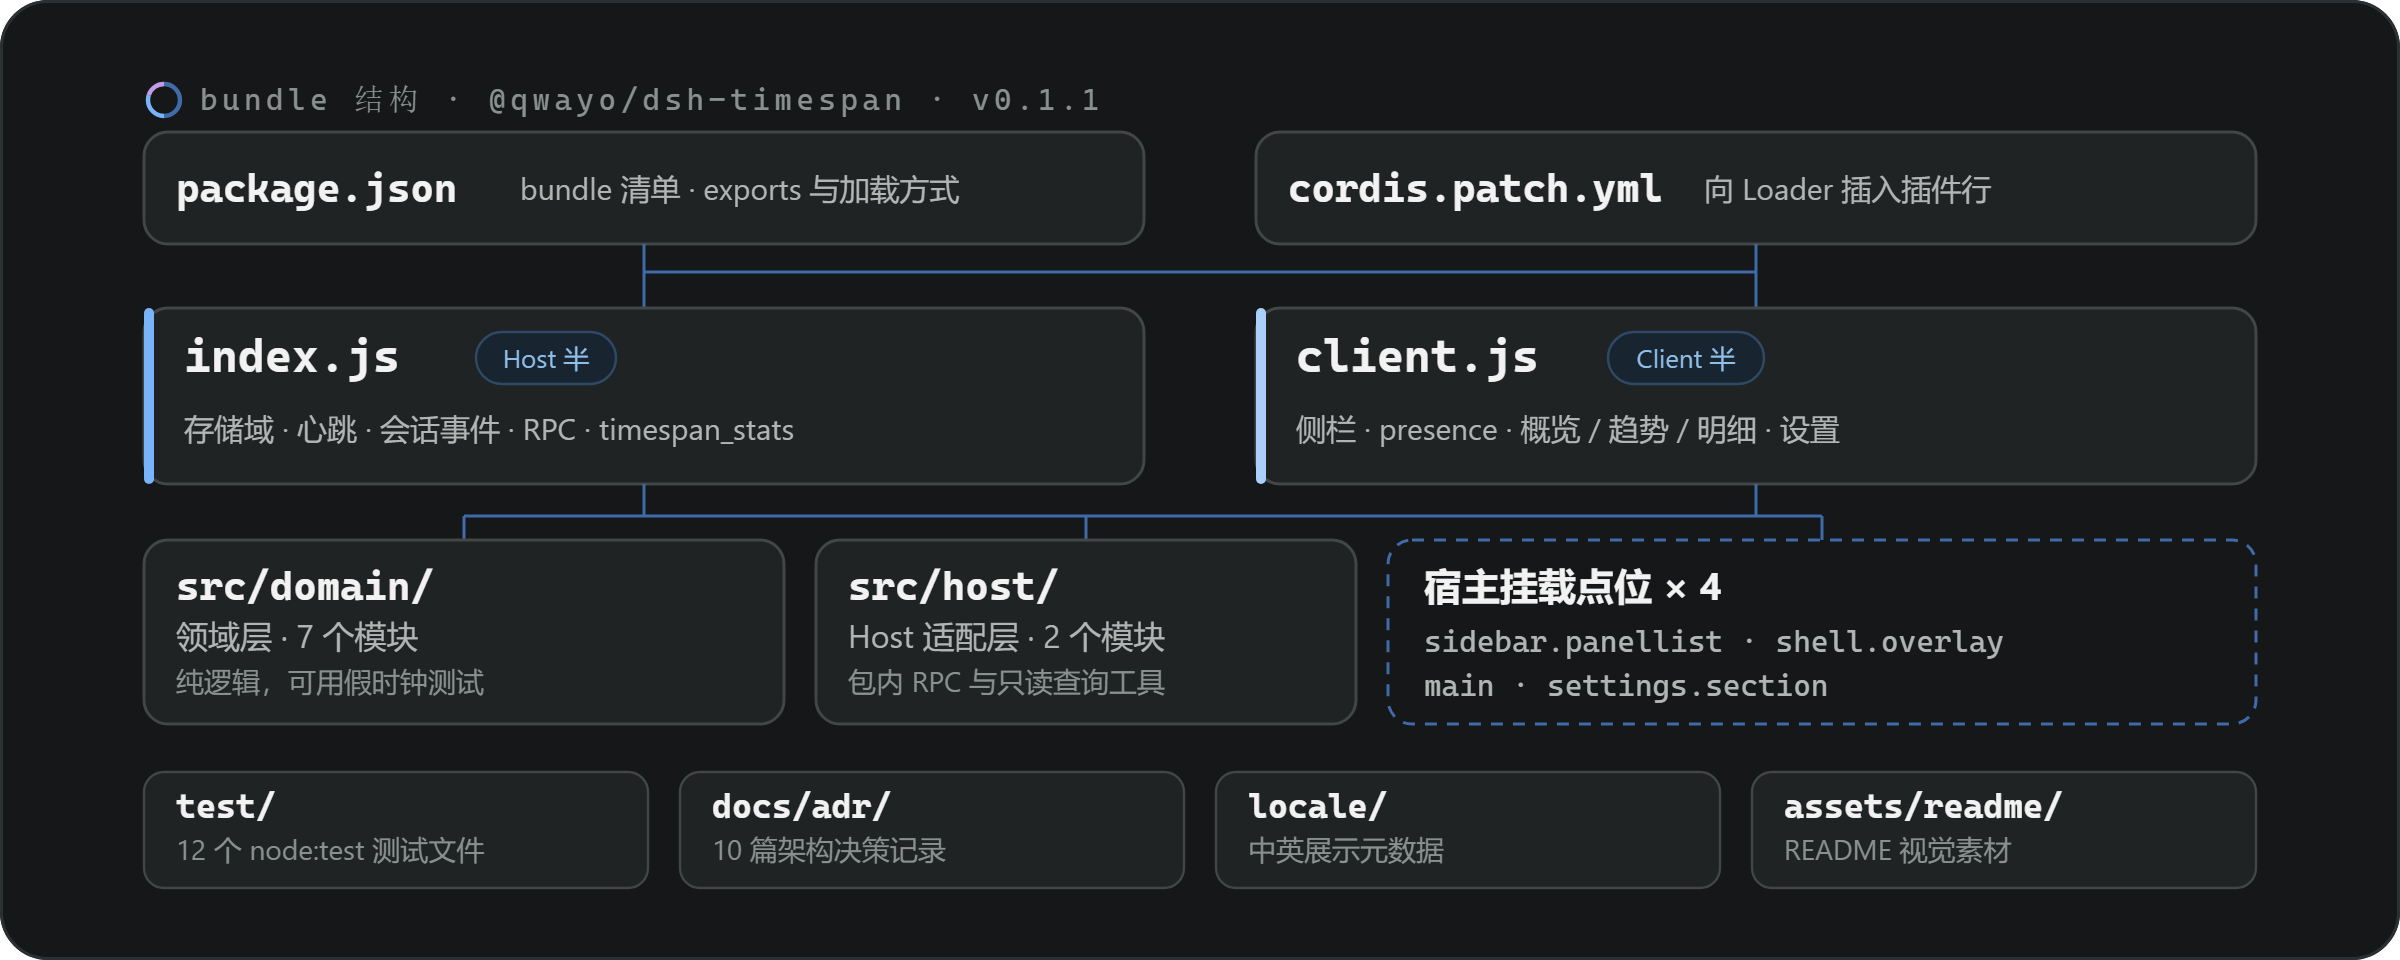
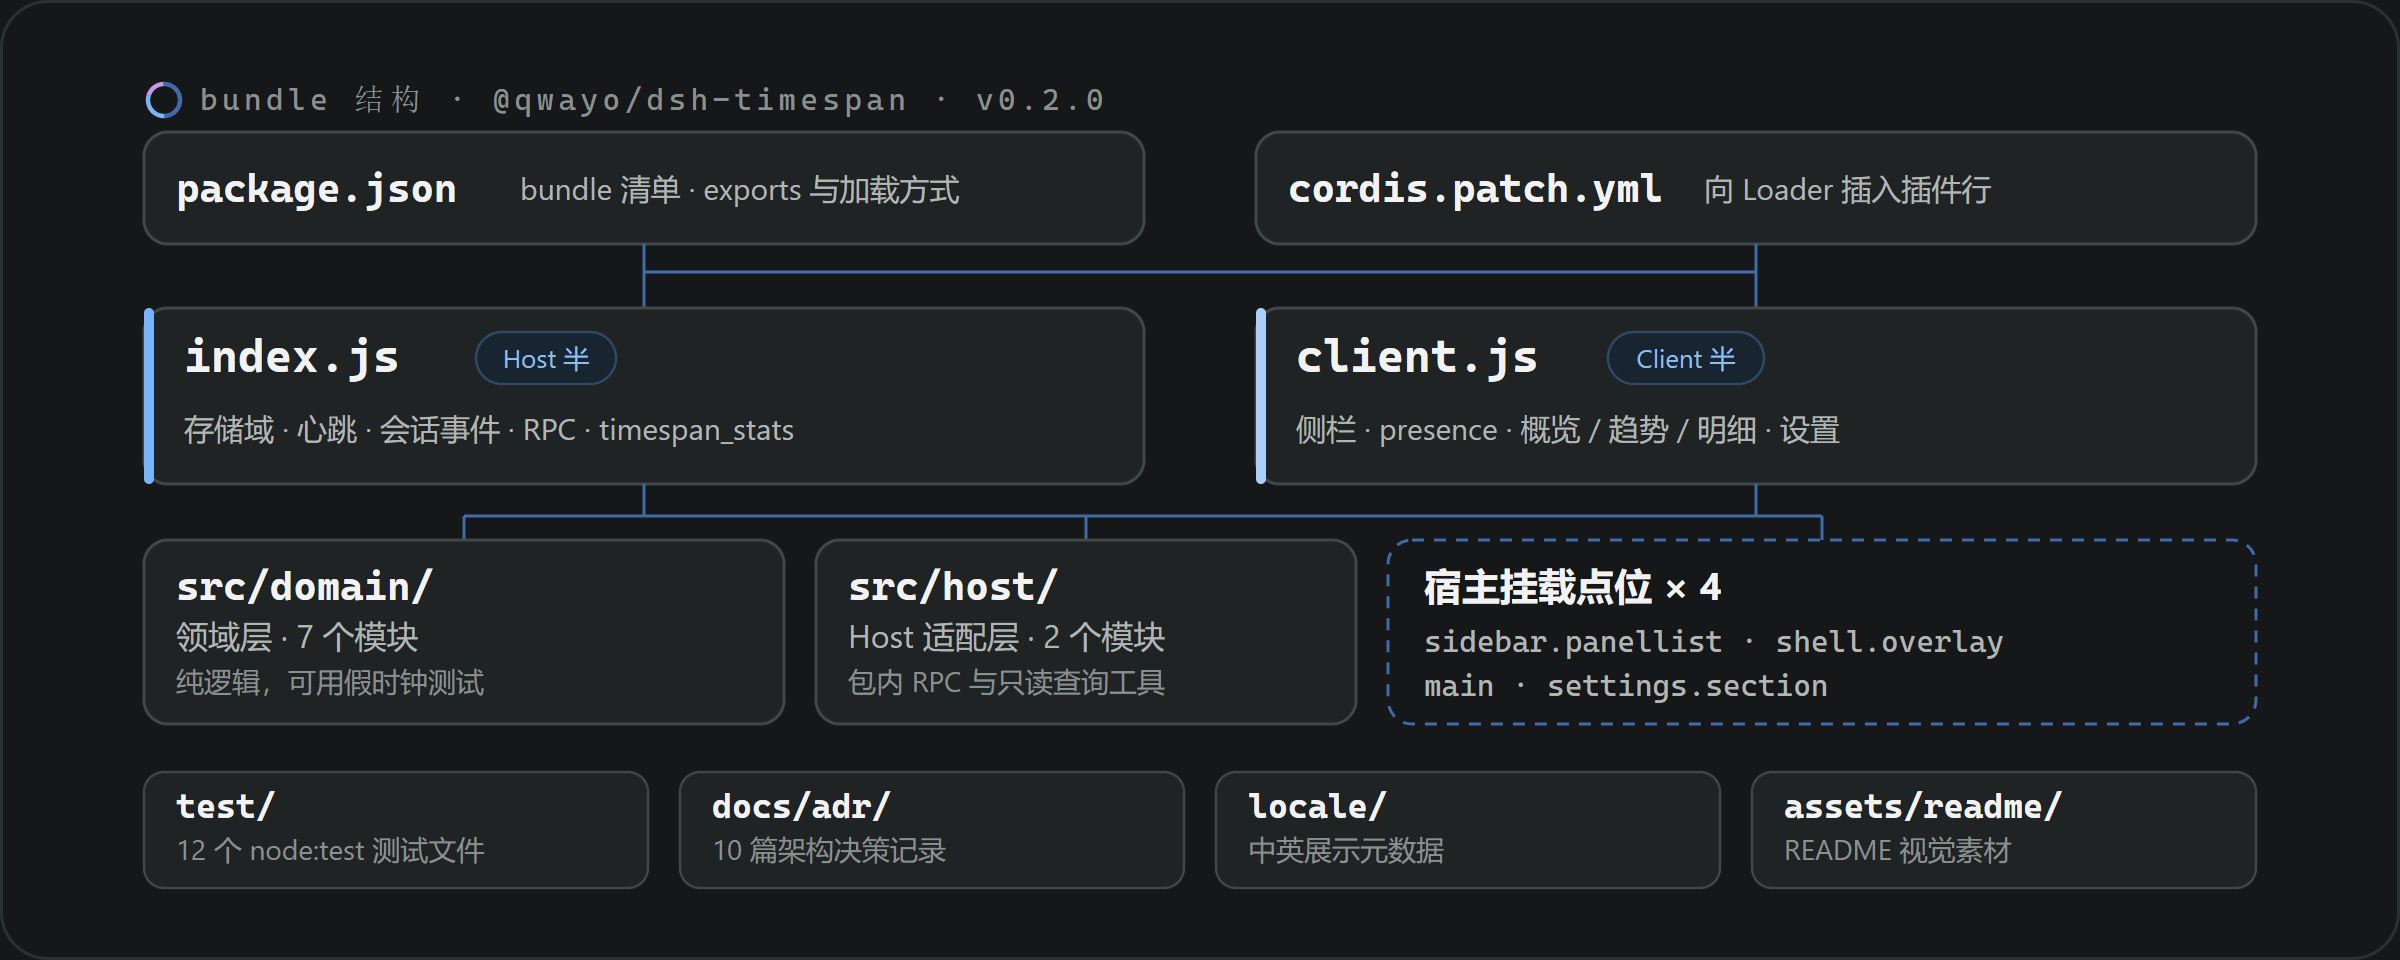
chore(release): v0.2.0 —— 仪表盘与会话模块两轮改造，配图版本号同步

diff --git a/README.en.md b/README.en.md
@@ -54,7 +54,7 @@ The package is published to npm; this is the easiest route. Say this in a sessio
 
 > Install the plugin @qwayo/dsh-timespan
 
-`plugin_manager` fetches the latest version from the registry, installs and enables it. To pin a version, use `@qwayo/dsh-timespan@0.1.1` instead. Restart DSH when it says a restart is needed.
+`plugin_manager` fetches the latest version from the registry, installs and enables it. To pin a version, use `@qwayo/dsh-timespan@0.2.0` instead. Restart DSH when it says a restart is needed.
 
 ### Option 2: install from GitHub
 

diff --git a/README.md b/README.md
@@ -54,7 +54,7 @@ dsh-timespan 分成两半：**Host** 是随 DSH 一起运行的后台，**Client
 
 > 帮我装插件 @qwayo/dsh-timespan
 
-`plugin_manager` 会从 registry 拉取最新版本，安装并默认启用。想固定版本就换成 `@qwayo/dsh-timespan@0.1.1`。提示需要重启时，重启 DSH 即可。
+`plugin_manager` 会从 registry 拉取最新版本，安装并默认启用。想固定版本就换成 `@qwayo/dsh-timespan@0.2.0`。提示需要重启时，重启 DSH 即可。
 
 ### 方式二：安装 GitHub 仓库
 
